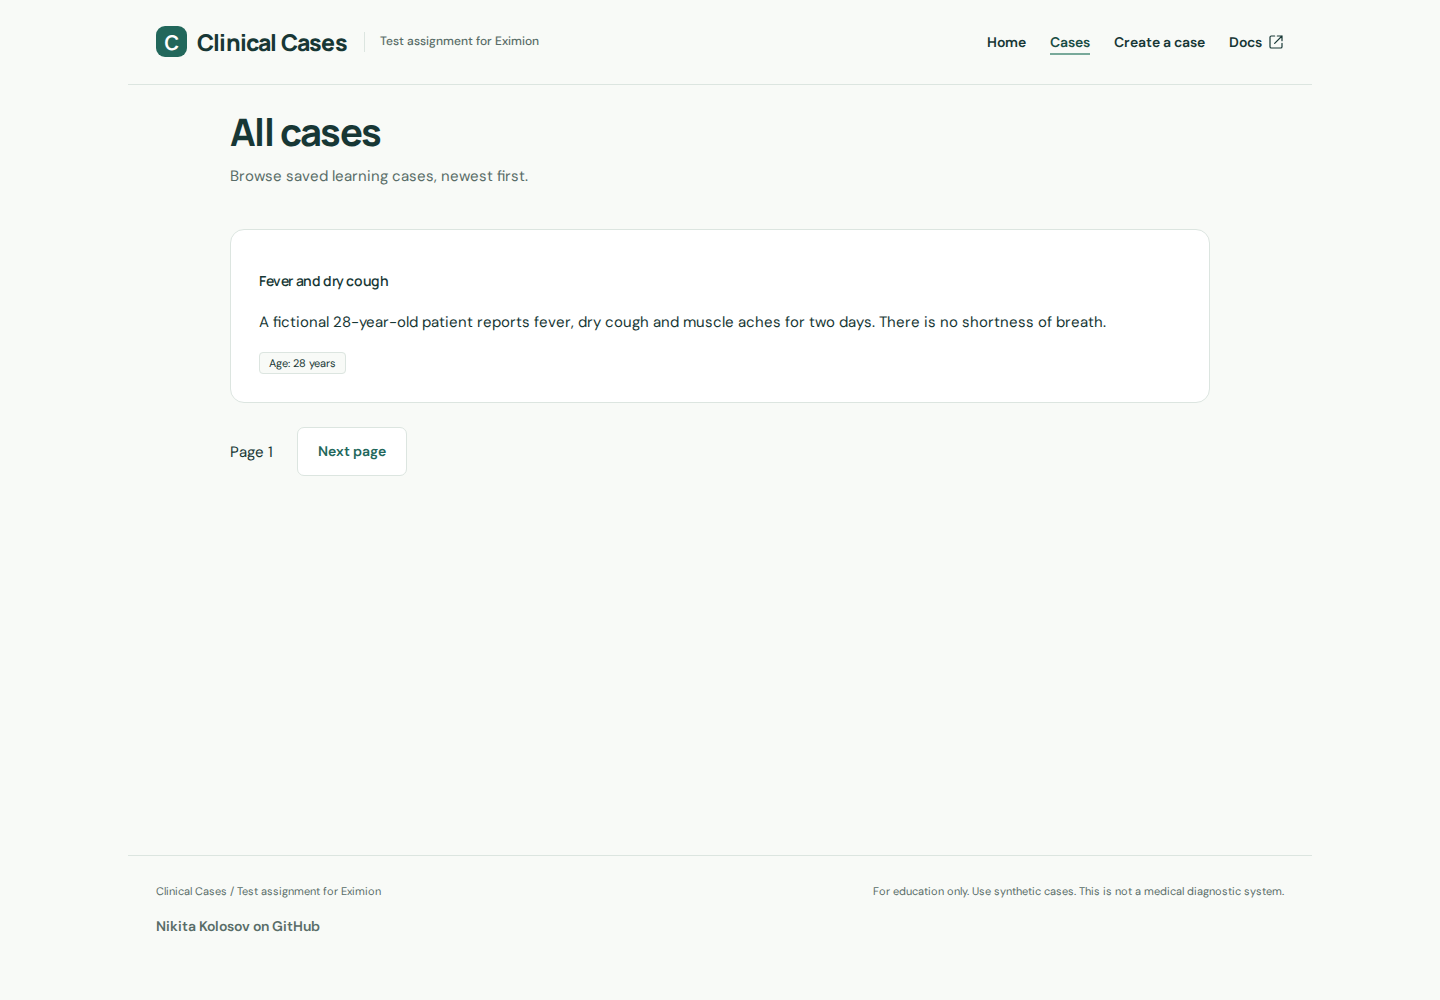
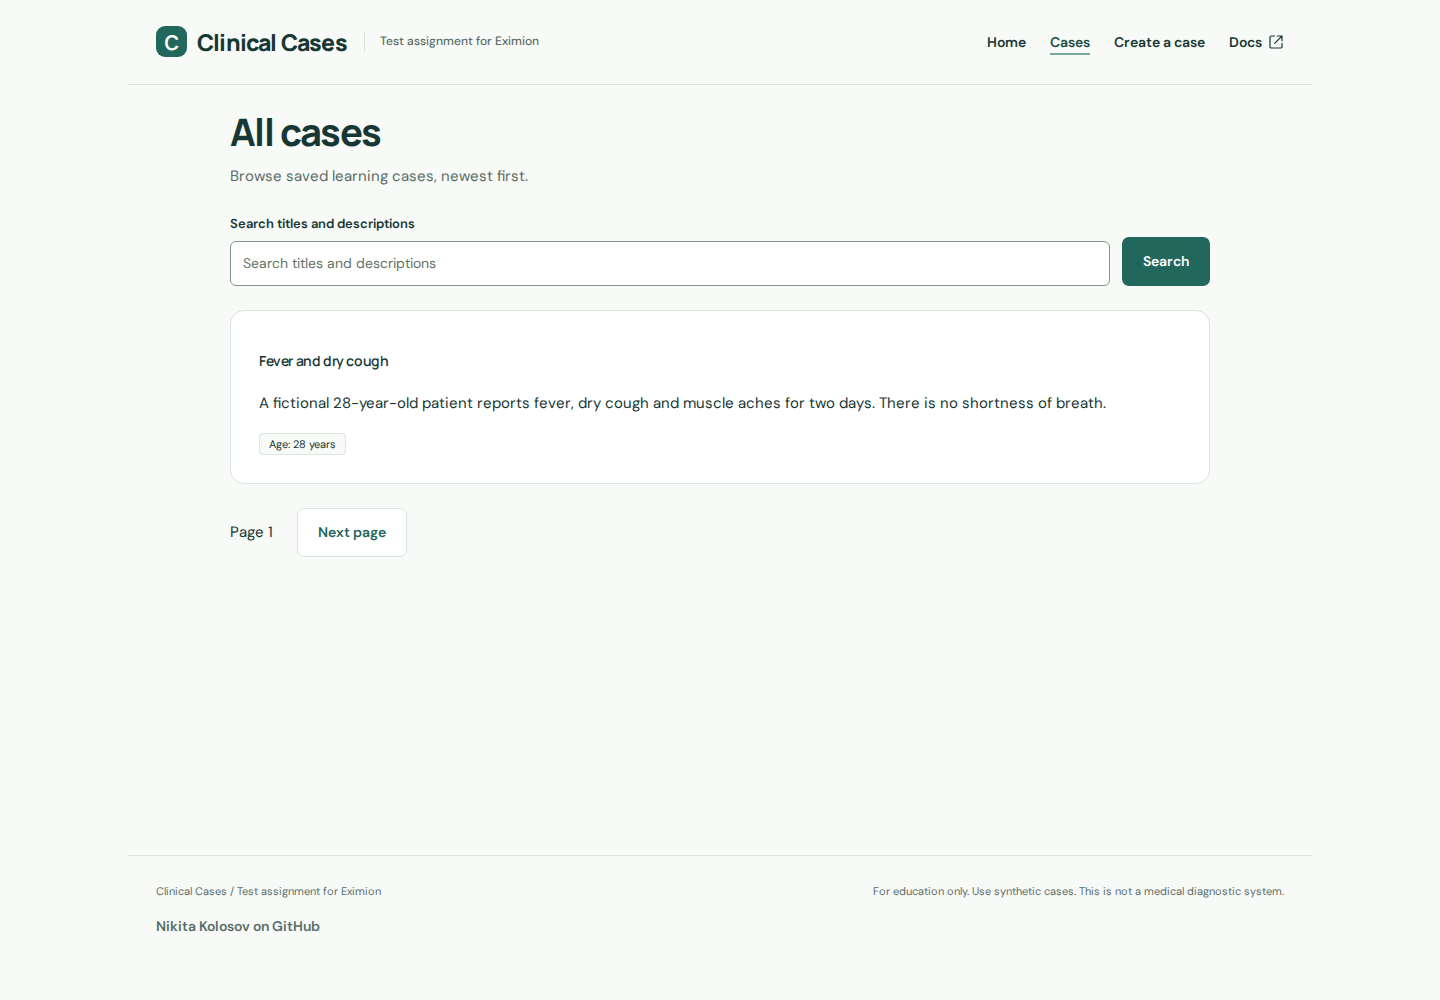
[FE] [BE] feat(catalog): add search and extraction feedback

diff --git a/frontend/src/app/clinical-cases/page.tsx b/frontend/src/app/clinical-cases/page.tsx
@@ -1,4 +1,5 @@
 import type { Metadata } from "next";
+import Form from "next/form";
 import Link from "next/link";
 import { notFound } from "next/navigation";
 import { apiBaseUrl } from "@/lib/api";
@@ -9,17 +10,23 @@ export const dynamic = "force-dynamic";
 export const metadata: Metadata = { title: messages.back };
 
 interface CatalogPageProps {
-  searchParams: Promise<{ page?: string | string[] }>;
+  searchParams: Promise<{ page?: string | string[]; q?: string | string[] }>;
 }
 
 export default async function CatalogPage({ searchParams }: CatalogPageProps) {
-  const { page: value } = await searchParams;
+  const { page: value, q: rawQuery } = await searchParams;
   if (value !== undefined && (typeof value !== "string" || !/^[1-9]\d{0,6}$/.test(value)))
     notFound();
+  if (rawQuery !== undefined && (typeof rawQuery !== "string" || rawQuery.includes("\0")))
+    notFound();
   const page = Number(value ?? "1");
+  const query = rawQuery?.trim() ?? "";
+  if (Array.from(query).length > 200) notFound();
   if (page > 1_000_000) notFound();
   const baseUrl = (process.env.API_INTERNAL_URL || apiBaseUrl()).replace(/\/$/, "");
-  const response = await fetch(`${baseUrl}/api/v1/clinical-cases?page=${page}&page_size=20`, {
+  const params = new URLSearchParams({ page: String(page), page_size: "20" });
+  if (query) params.set("q", query);
+  const response = await fetch(`${baseUrl}/api/v1/clinical-cases?${params}`, {
     cache: "no-store",
     signal: AbortSignal.timeout(15000),
   });
@@ -32,12 +39,28 @@ export default async function CatalogPage({ searchParams }: CatalogPageProps) {
         <h1>{messages.back}</h1>
         <p className="lead">{messages.catalogDescription}</p>
       </div>
+      <Form key={query} action="/clinical-cases" className="catalog-search">
+        <div className="catalog-search-field">
+          <label htmlFor="case-search">{messages.searchLabel}</label>
+          <input
+            id="case-search"
+            type="search"
+            name="q"
+            placeholder={messages.searchPlaceholder}
+            defaultValue={query}
+          />
+        </div>
+        <button className="button" type="submit">{messages.search}</button>
+        {query && <Link className="text-link" href="/clinical-cases">{messages.clearSearch}</Link>}
+      </Form>
       {cases.items.length === 0 ? (
-        <div className="panel" data-testid="catalog-empty">
-          <p>{page === 1 ? messages.catalogEmpty : messages.catalogPageEmpty}</p>
-          <Link className="button" href={page === 1 ? "/clinical-cases/new" : "/clinical-cases"}>
-            {page === 1 ? messages.create : messages.firstPage}
-          </Link>
+        <div className="panel" data-testid={query && page === 1 ? "catalog-search-empty" : "catalog-empty"}>
+          <p>{query && page === 1 ? messages.catalogSearchEmpty : page === 1 ? messages.catalogEmpty : messages.catalogPageEmpty}</p>
+          {!(query && page === 1) && (
+            <Link className="button" href={page === 1 ? "/clinical-cases/new" : query ? `/clinical-cases?${new URLSearchParams({ q: query })}` : "/clinical-cases"}>
+              {page === 1 ? messages.create : messages.firstPage}
+            </Link>
+          )}
         </div>
       ) : (
         <ul className="catalog-list">
@@ -52,9 +75,9 @@ export default async function CatalogPage({ searchParams }: CatalogPageProps) {
       )}
       {(page > 1 || cases.has_more) && (
         <nav className="catalog-pagination" aria-label={messages.pagination}>
-          {page > 1 && <Link className="button button-secondary" href={`/clinical-cases?page=${page - 1}`}>{messages.previous}</Link>}
+          {page > 1 && <Link className="button button-secondary" href={`/clinical-cases?${new URLSearchParams({ page: String(page - 1), ...(query ? { q: query } : {}) })}`}>{messages.previous}</Link>}
           <span aria-current="page">{messages.pageNumber(page)}</span>
-          {cases.has_more && <Link className="button button-secondary" href={`/clinical-cases?page=${page + 1}`}>{messages.next}</Link>}
+          {cases.has_more && <Link className="button button-secondary" href={`/clinical-cases?${new URLSearchParams({ page: String(page + 1), ...(query ? { q: query } : {}) })}`}>{messages.next}</Link>}
         </nav>
       )}
     </div>

diff --git a/frontend/src/components/pages.test.tsx b/frontend/src/components/pages.test.tsx
@@ -152,18 +152,37 @@ describe("page selector contract", () => {
 
 
 describe("case catalog", () => {
-  it("renders saved case links and paginates without caching", async () => {
+  it("trims and sends the search query and preserves it through pagination", async () => {
+    const query = "  Dry & cough 🚑  ";
     const fetch = vi.fn().mockResolvedValue(new Response(JSON.stringify({
       items: [{ id: DEMO_CASE_ID, title: "Saved case", vignette: "Synthetic vignette", age_years: null }],
       has_more: true,
     })));
     vi.stubGlobal("fetch", fetch);
-    render(await CatalogPage({ searchParams: Promise.resolve({ page: "2" }) }));
+    render(await CatalogPage({ searchParams: Promise.resolve({ page: "2", q: query }) }));
     expect(screen.getByRole("link", { name: "Saved case" }).getAttribute("href")).toBe(`/clinical-cases/${DEMO_CASE_ID}`);
-    expect(screen.getByRole("link", { name: messages.previous }).getAttribute("href")).toBe("/clinical-cases?page=1");
-    expect(screen.getByRole("link", { name: messages.next }).getAttribute("href")).toBe("/clinical-cases?page=3");
+    const previous = new URL(screen.getByRole("link", { name: messages.previous }).getAttribute("href")!, "https://example.test");
+    const next = new URL(screen.getByRole("link", { name: messages.next }).getAttribute("href")!, "https://example.test");
+    expect(previous.searchParams.get("page")).toBe("1");
+    expect(previous.searchParams.get("q")).toBe(query.trim());
+    expect(next.searchParams.get("page")).toBe("3");
+    expect(next.searchParams.get("q")).toBe(query.trim());
+    expect((screen.getByLabelText(messages.searchLabel) as HTMLInputElement).value).toBe(query.trim());
+    expect(screen.getByRole("link", { name: messages.clearSearch }).getAttribute("href")).toBe("/clinical-cases");
     expect(screen.getByText(`${messages.age}: ${messages.ageUnknown}`)).toBeTruthy();
-    expect(fetch).toHaveBeenCalledWith(expect.stringContaining("?page=2&page_size=20"), expect.objectContaining({ cache: "no-store" }));
+    const requestedUrl = new URL(fetch.mock.calls[0][0]);
+    expect(Object.fromEntries(requestedUrl.searchParams)).toEqual({ page: "2", page_size: "20", q: query.trim() });
+    const search = screen.getByRole("searchbox", { name: messages.searchLabel });
+    expect(search.closest("form")?.getAttribute("action")).toBe("/clinical-cases");
+    expect(search.closest("form")?.getAttribute("method")).not.toBe("post");
+  });
+
+  it("distinguishes no search matches and offers a clear link", async () => {
+    vi.stubGlobal("fetch", vi.fn().mockResolvedValue(new Response(JSON.stringify({ items: [], has_more: false }))));
+    render(await CatalogPage({ searchParams: Promise.resolve({ q: "missing" }) }));
+    expect(screen.getByTestId("catalog-search-empty").textContent).toContain(messages.catalogSearchEmpty);
+    expect(screen.queryByTestId("catalog-empty")).toBeNull();
+    expect(screen.getByRole("link", { name: messages.clearSearch }).getAttribute("href")).toBe("/clinical-cases");
   });
 
   it.each([1, 3])("offers a useful empty state on page %i", async (page) => {
@@ -178,6 +197,13 @@ describe("case catalog", () => {
     const fetch = vi.fn();
     vi.stubGlobal("fetch", fetch);
     await expect(CatalogPage({ searchParams: Promise.resolve({ page }) })).rejects.toThrow("not-found");
+    expect(fetch).not.toHaveBeenCalled();
+  });
+
+  it.each([{ q: ["a", "b"] }, { q: "bad\0query" }, { q: String.fromCodePoint(0x1f600).repeat(201) }])("rejects invalid search query before fetching", async ({ q }) => {
+    const fetch = vi.fn();
+    vi.stubGlobal("fetch", fetch);
+    await expect(CatalogPage({ searchParams: Promise.resolve({ q }) })).rejects.toThrow("not-found");
     expect(fetch).not.toHaveBeenCalled();
   });
 

diff --git a/frontend/src/app/globals.css b/frontend/src/app/globals.css
@@ -1080,6 +1080,60 @@ textarea:focus-visible {
 .catalog-pagination {
   margin-top: 24px;
 }
+.catalog-search {
+  display: flex;
+  align-items: end;
+  flex-wrap: wrap;
+  gap: 12px;
+  margin-bottom: 24px;
+}
+.catalog-search-field {
+  flex: 1 1 280px;
+  min-width: 0;
+}
+.catalog-search-field label {
+  display: block;
+  margin-bottom: 6px;
+  font-size: 13px;
+  font-weight: 600;
+}
+.catalog-search-field input {
+  width: 100%;
+}
+.catalog-search .text-link {
+  min-height: 48px;
+  display: inline-flex;
+  align-items: center;
+  padding: 0 8px;
+}
+.source-panel button span {
+  display: inline-grid;
+  width: 14px;
+  height: 14px;
+  flex: 0 0 14px;
+  place-items: center;
+  line-height: 1;
+}
+.source-panel button[aria-busy="true"] span {
+  border: 2px solid rgb(255 255 255 / 45%);
+  border-top-color: #fff;
+  border-radius: 50%;
+  color: transparent;
+  animation: extract-spin 0.8s linear infinite;
+}
+@keyframes extract-spin {
+  to { transform: rotate(360deg); }
+}
+.draft-panel .review-check,
+.draft-panel .review-check input:not(:disabled) {
+  cursor: pointer;
+}
+.draft-panel .review-check input:disabled {
+  cursor: not-allowed;
+}
+.draft-panel fieldset:disabled .review-check {
+  cursor: not-allowed;
+}
 
 .external-link-icon {
   margin-left: 6px;

diff --git a/frontend/src/lib/messages.ts b/frontend/src/lib/messages.ts
@@ -15,8 +15,13 @@ export const messages = {
   catalogDescription: "Browse saved learning cases, newest first.",
   catalogEmpty: "No cases have been saved yet.",
   catalogPageEmpty: "There are no cases on this page.",
+  catalogSearchEmpty: "No cases match this search.",
   catalogError: "Unable to load cases",
   catalogLoading: "Loading clinical cases...",
+  searchLabel: "Search titles and descriptions",
+  searchPlaceholder: "Search titles and descriptions",
+  search: "Search",
+  clearSearch: "Clear search",
   pagination: "Case pages",
   previous: "Previous page",
   next: "Next page",

diff --git a/frontend/src/lib/api.generated.ts b/frontend/src/lib/api.generated.ts
@@ -376,6 +376,8 @@ export interface operations {
             query?: {
                 page?: number;
                 page_size?: number;
+                /** @description Case-insensitive literal search in public titles and vignettes. */
+                q?: string;
             };
             header?: never;
             path?: never;

diff --git a/frontend/src/components/author-form.tsx b/frontend/src/components/author-form.tsx
@@ -276,6 +276,7 @@ export function AuthorForm() {
             className="button full-width"
             type="submit"
             data-testid="author-extract-submit"
+            aria-busy={pending === "extract"}
           >
             {pending === "extract"
               ? messages.extracting

diff --git a/backend/tests/test_api.py b/backend/tests/test_api.py
@@ -171,3 +171,29 @@ def test_catalog_order_pagination_and_hidden_answers(postgres, client, monkeypat
 @pytest.mark.parametrize("query", ["page=0", "page=-1", "page=1000001", "page=x", "page_size=0", "page_size=101"])
 def test_catalog_rejects_invalid_pagination(client, query):
     assert client.get(f"/api/v1/clinical-cases?{query}").status_code == 422
+
+
+def test_catalog_search_is_literal_public_and_paginated(postgres, client):
+    for title, vignette in [("Fever follow-up", "Public note"), ("Unrelated title", "A FEVER started yesterday"), ("Oxygen 98%_room/air", "Unrelated description")]:
+        response = client.post("/api/v1/clinical-cases", json=VALID_CASE | {
+            "title": title, "vignette": vignette,
+            "reference_diagnosis": "hidden-reference", "accepted_answers": ["hidden-synonym"],
+        })
+        assert response.status_code == 201
+    params = {"q": "  fEvEr  ", "page_size": 1}
+    first = client.get("/api/v1/clinical-cases", params=params).json()
+    second = client.get("/api/v1/clinical-cases", params=params | {"page": 2}).json()
+    assert len(first["items"]) == len(second["items"]) == 1
+    assert first["items"][0]["id"] != second["items"][0]["id"]
+    assert first["has_more"] and not second["has_more"]
+    for term in ["%", "_", "/", "%_room/air"]:
+        matches = client.get("/api/v1/clinical-cases", params={"q": term}).json()["items"]
+        assert [item["title"] for item in matches] == ["Oxygen 98%_room/air"]
+    for term in ["missing", "hidden-reference", "hidden-synonym"]:
+        assert client.get("/api/v1/clinical-cases", params={"q": term}).json() == {"items": [], "has_more": False}
+    assert len(client.get("/api/v1/clinical-cases", params={"q": "   "}).json()["items"]) == 3
+
+
+@pytest.mark.parametrize("query", ["x" * 201, "bad\x00query"])
+def test_catalog_rejects_invalid_search(client, query):
+    assert client.get("/api/v1/clinical-cases", params={"q": query}).status_code == 422

diff --git a/backend/app/main.py b/backend/app/main.py
@@ -7,7 +7,7 @@ from fastapi import Depends, FastAPI, Header, Query, Request, Response
 from fastapi.exceptions import RequestValidationError
 from fastapi.middleware.cors import CORSMiddleware
 from fastapi.responses import JSONResponse
-from sqlalchemy import select, text
+from sqlalchemy import or_, select, text
 from sqlalchemy.exc import SQLAlchemyError
 from sqlalchemy.orm import Session
 
@@ -119,9 +119,16 @@ def list_clinical_cases(
     session: SessionDependency,
     page: Annotated[int, Query(ge=1, le=1_000_000)] = 1,
     page_size: Annotated[int, Query(ge=1, le=100)] = 20,
+    q: Annotated[str, Query(max_length=200, pattern=r"^[^\x00]*$", description="Case-insensitive literal search in public titles and vignettes.")] = "",
 ):
+    query = select(ClinicalCaseRecord)
+    if term := q.strip():
+        query = query.where(or_(
+            ClinicalCaseRecord.title.icontains(term, autoescape=True),
+            ClinicalCaseRecord.vignette.icontains(term, autoescape=True),
+        ))
     records = session.scalars(
-        select(ClinicalCaseRecord)
+        query
         .order_by(ClinicalCaseRecord.created_at.desc(), ClinicalCaseRecord.id.desc())
         .offset((page - 1) * page_size)
         .limit(page_size + 1)

diff --git a/docs/progress.md b/docs/progress.md
@@ -202,3 +202,9 @@ Current implementation: frontend9b33fe2; backendee46085. Final local/cloud/API/t
 - Reviewed all eight Linux images. Source commit 57caae4 passed every job in GitHub Actions run 37803164578, including screenshot-tests; screenshot-results artifact uploaded successfully.
 - Frontend build 473e9afa-ddab-4978-8215-6554807df0cf succeeded. Revision eximion-frontend-00008-jdd serves 100% of traffic using image 57caae4.
 - Live verification passed: real case title, active links, unsaved leave cancellation, replacement cancellation/answer preservation/review reset, locally served fonts returning 200, and 390px layout without overflow or JavaScript errors. Extraction was mocked for this UI check; no Gemini calls or database writes. Backend and migrations were unchanged.
+
+## Catalog search and extraction feedback (2026-10-08)
+- Added public title/vignette search across the full catalog before pagination, using escaped case-insensitive literal matching. Query length/NUL validation and tests prevent hidden-answer search and wildcard expansion. Regenerated OpenAPI and TypeScript contract.
+- Added a query-preserving search form, Enter submission, Clear search and distinct no-result state. Review checkbox/label use pointer when enabled and not-allowed while disabled. The extraction button shows a rotating indicator with aria-busy and the existing status; reduced motion disables rotation.
+- Verified 77 backend tests against PostgreSQL, mypy, 43 frontend tests, TypeScript and production builds. Reviewed the changed desktop/mobile catalog and author screenshots; all eight comparisons passed in the pinned Linux container.
+- Browser regression and deployment results follow below.

diff --git a/docs/api-contract.md b/docs/api-contract.md
@@ -15,7 +15,7 @@ Pydantic is authoritative. Reject unknown request fields. Trim strings before va
 ## Routes
 - POST /api/v1/clinical-cases/extract: ExtractionRequest -> 200 ExtractionResponse; 422 validation, 502 extraction_failed, 503 extraction_unavailable, 504 extraction_timeout.
 - POST /api/v1/clinical-cases: ClinicalCaseCreate -> 201 ClinicalCase; Location /api/v1/clinical-cases/{id}; 422 validation, 503 database_unavailable.
-- GET /api/v1/clinical-cases: 200 ClinicalCasePage; page integer 1..1000000 (default 1), page_size integer 1..100 (default 20). Order created_at DESC, id DESC. Empty pages return items [] and has_more false; 422 invalid pagination, 503 database_unavailable. Public fields only.
+- GET /api/v1/clinical-cases: 200 ClinicalCasePage; page integer 1..1000000 (default 1), page_size integer 1..100 (default 20), optional q string (max 200 characters, no U+0000). Trim q; empty means all cases. Case-insensitive literal substring matching on public title/vignette only, before pagination; `%` and `_` are literal, and hidden answers are excluded. Order created_at DESC, id DESC. Empty pages return items [] and has_more false; 422 invalid pagination/search, 503 database_unavailable. Public fields only.
 - GET /api/v1/clinical-cases/{id}: 200 ClinicalCase; 404 case_not_found, 422 malformed UUID, 503 database_unavailable.
 - POST /api/v1/clinical-cases/{id}/attempts: AttemptCreate -> 201 AttemptResult; 404 case_not_found, 422 validation, 503 database_unavailable.
 - GET /health: 200 {"status":"ok"}. GET /ready: verify database; 200 {"status":"ok"} or 503 database_unavailable.

diff --git a/docs/specification.md b/docs/specification.md
@@ -35,3 +35,9 @@ Verify extraction validation/failures, author editing/save, server rendering, ex
 - Mark exactly one active header section with aria-current: Home, Cases (including details), or Create a case.
 - Render the real case title in tab metadata, sharing the request-scoped case loader with the page.
 - Compare eight desktop/mobile screenshots in CI using a pinned Linux/Chromium image and locally served fonts. Commit reviewed baselines; upload actual/diff artifacts on failures. Never update baselines in CI.
+
+## Catalog search and author feedback
+- Optional q (up to 200 characters, no NUL) searches public titles and vignettes across all cases by a trimmed, case-insensitive literal substring. Empty q lists all; percent/underscore remain literal. Hidden answers never influence results. Filter before stable pagination.
+- All cases has a labelled search form and clear action. Search submits to page 1, URL retains q, pagination preserves it, and no-match results are distinct from an empty catalog.
+- Review checkbox and label show pointer when enabled, not-allowed when disabled.
+- Extract case displays an animated generation indicator while the request is pending, retaining disabled controls and accessible status. No layout shift; reduced-motion preference disables motion.

diff --git a/docs/plan.md b/docs/plan.md
@@ -44,3 +44,8 @@ Tests after implementation, without mandatory test-first. Backend integration us
 - [x] Add active navigation and case-specific metadata with a shared loader.
 - [x] Pin screenshot container, serve existing fonts locally, review Linux baselines and enable CI artifact uploads.
 - [x] Verify unit/type/build/browser/visual checks, review implementation, push, deploy frontend and verify live behavior.
+
+## Catalog search and author feedback
+- [x] Add validated literal public-text search before pagination; regenerate API contract and test PostgreSQL matching/privacy.
+- [x] Add query-preserving catalog search, review cursor and reduced-motion-aware extraction indicator; verify unit and browser behavior.
+- [ ] Review updated visual baselines, pass CI, deploy both services and verify live.
